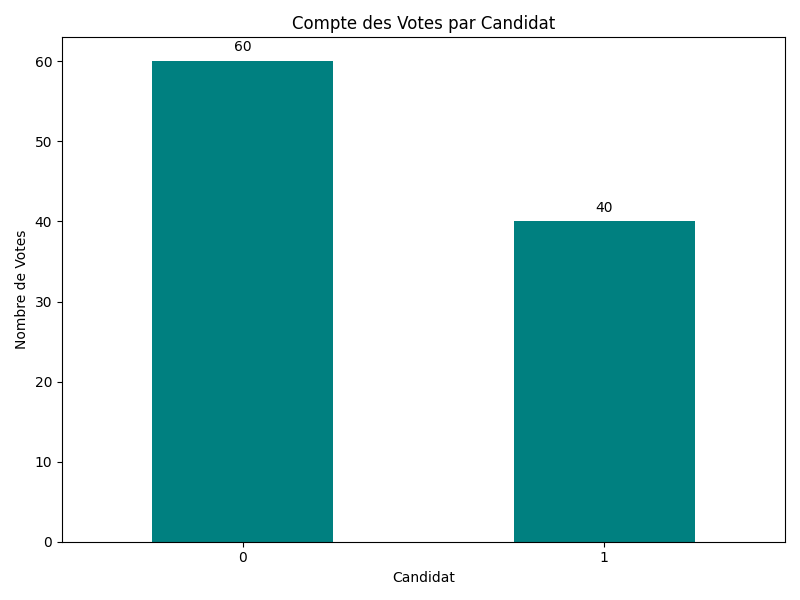
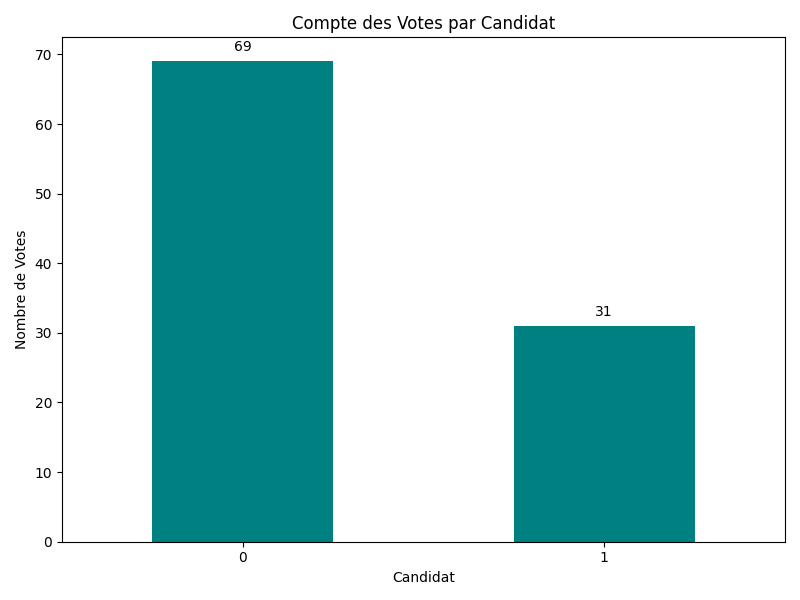
update readme, update tutorial 1 and 2

diff --git a/README.md b/README.md
@@ -1,14 +1,158 @@
 # Agent-Based Political Election Simulator
 
-This project provides a high-performance, agent-based model (ABM) for simulating political elections. It uses the **Hierarchical Gaussian Filter (HGF)** via the `pyhgf` library to model how individual voters update their beliefs over time. The simulation core is vectorized with **JAX** for speed, allowing for large-scale experiments.
+This project provides an agent-based model (ABM) for simulating political elections. It uses the **Hierarchical Gaussian Filter (HGF)** via the `pyhgf` library to model how individual voters update their beliefs over time.
+
+## Project Structure
+
+├── src/                  
+│   ├── eci/
+        ├── voting_system/
+        ├── beliefs.py
+        ├── decision.py
+        ├── plurality.py
+        ├── quadratic.py
+        ├── random voting.py
+│   ├── adapter.py        
+│   ├── agents.py 
+    ├── environement.py  
+    ├── utils.py
+    └── visualizer.py    
+├── notebooks/            # Jupyter notebooks for step-by-step learning
+├── tests/            # Jupyter notebooks for step-by-step learning
+├── pyproject.toml        # Dependencies (uv)
+└── Makefile              # Automation commands
 
 ## Quick Start
 
 ### Installation
 
-This project uses `uv` for fast package management.
+This project uses `uv` for package management.
 
 ```bash
 # Install all dependencies from pyproject.toml
 make install
 ```
+
+## How it Work
+
+You can use notebook: tutorial_1 to understand how the decision making process work and tutorial 2 to understand how it work under different agents. 
+
+### 1. Create the Environment
+
+The `Environment` is the container for all agents (Voters and Candidates).
+
+**Code:**
+
+```python
+from eci.environment import Environment
+
+# 1. Define the dimensions of the simulation
+NUM_VOTERS = 200        # Total number of voters
+NUM_CANDIDATES = 6      # Total number of candidates running
+NUM_PREFERENCES = 6     # Number of policy dimensions (e.g., Economy, Social, etc.)
+
+# Set the number of simulation
+NUM_SIMULATIONS = 100
+env.num_simulations = NUM_SIMULATIONS
+
+# 2. Initialize the environment object
+env = Environment(
+    num_voters=NUM_VOTERS,
+    num_candidates=NUM_CANDIDATES,
+    num_preferences=NUM_PREFERENCES,
+)
+
+```
+
+### 2. Configure Agents (Voters & Candidates)
+
+Once the environment is created, you can change the "preference" and "policies" of the agents. 
+
+* **Candidates:** Defined by their policy stance (`mean`) and how precise they are (`precision`).
+* **Voters:** Defined by their preference (`mean`) and how strongly they hold those preferences (`precision`).
+
+**Code Example:**
+
+```python
+import jax.numpy as jnp
+
+# We loop through the first 5 voters and give them specific preferences
+for i in range(5):
+    env.voters[i].preferences["mean"] = jnp.array([-1.0, -1.0, -1.0, -1.0])
+    
+    # Higher value = higher certainty
+    env.voters[i].preferences["precision"] = jnp.array([0.4, 0.2, 0.6, 0.2])
+
+# Configure a Candidate
+env.candidates[0].policy["mean"] = jnp.array([1, 1, 1, 1])
+env.candidates[0].policy["precision"] = jnp.array([0.4, 0.4, 0.4, 0.4])
+
+```
+
+### 3. Launch Simulation
+
+To run a simulation, you must initialize the agents' internal models.
+
+```python
+import jax
+from eci.voting_system.random import _vote_random
+
+# 1. Initialize the HGF network for all agents
+env.initialize_network()
+
+# 2. Initialize a JAX PRNGKey for reproducibility
+key = jax.random.PRNGKey(42)
+
+# 3. Run N simulations with a specific voting system
+# The simulator supports: _vote_plurality, _vote_quadratic, and _vote_random
+sim = env.run_n_simulation(_vote_random, key, NUM_SIMULATIONS)
+
+# 4. Update the agents' internal states based on simulation results
+env._update_agents()
+
+# 5. Create a DataFrame for analysis and plotting
+env.df = env.create_data_frame()
+
+```
+
+The simulator supports various ways to aggregate agent decisions:
+
+* **Plurality Voting (`_vote_plurality`)**: Standard winner-take-all system.
+* **Quadratic Voting (`_vote_quadratic`)**: Allows voters to express the intensity of their preferences.
+* **Random Voting (`_vote_random`)**: Used as a baseline for comparison.
+
+---
+
+### 4. Plot Results 
+
+The simulation setup involves defining how many time steps (or trajectories) the agents will experience. You also initialize the **Adapter** (handles data) and **Visualizer** (handles plotting).
+
+**Code:**
+
+
+```python
+from eci.adapter import SimulationAdapter
+from eci.visualizer import SimulationVisualizer
+
+# 2. Initialize helpers
+viz = SimulationVisualizer()  # For plotting graphs
+adapter = SimulationAdapter() # For processing simulation data
+
+```
+
+## 📚 Documentation and Tutorials
+
+> **Note:** Full official documentation and detailed interactive tutorials are currently being drafted and will be available very soon to guide you.
+> 
+
+```
+
+If you use this code or data in a scientific publication, please cite:
+
+@software{political_abm2025,
+  author    = {Sylvain Estebe, Nicolas Legrand},
+  title     = {collective decision-making in volatile political environments using quadratic voting}, 
+  year      = {2025},
+  publisher = {GitHub},
+  url       = {https://github.com/SylvainEstebe/votre_repo},
+}